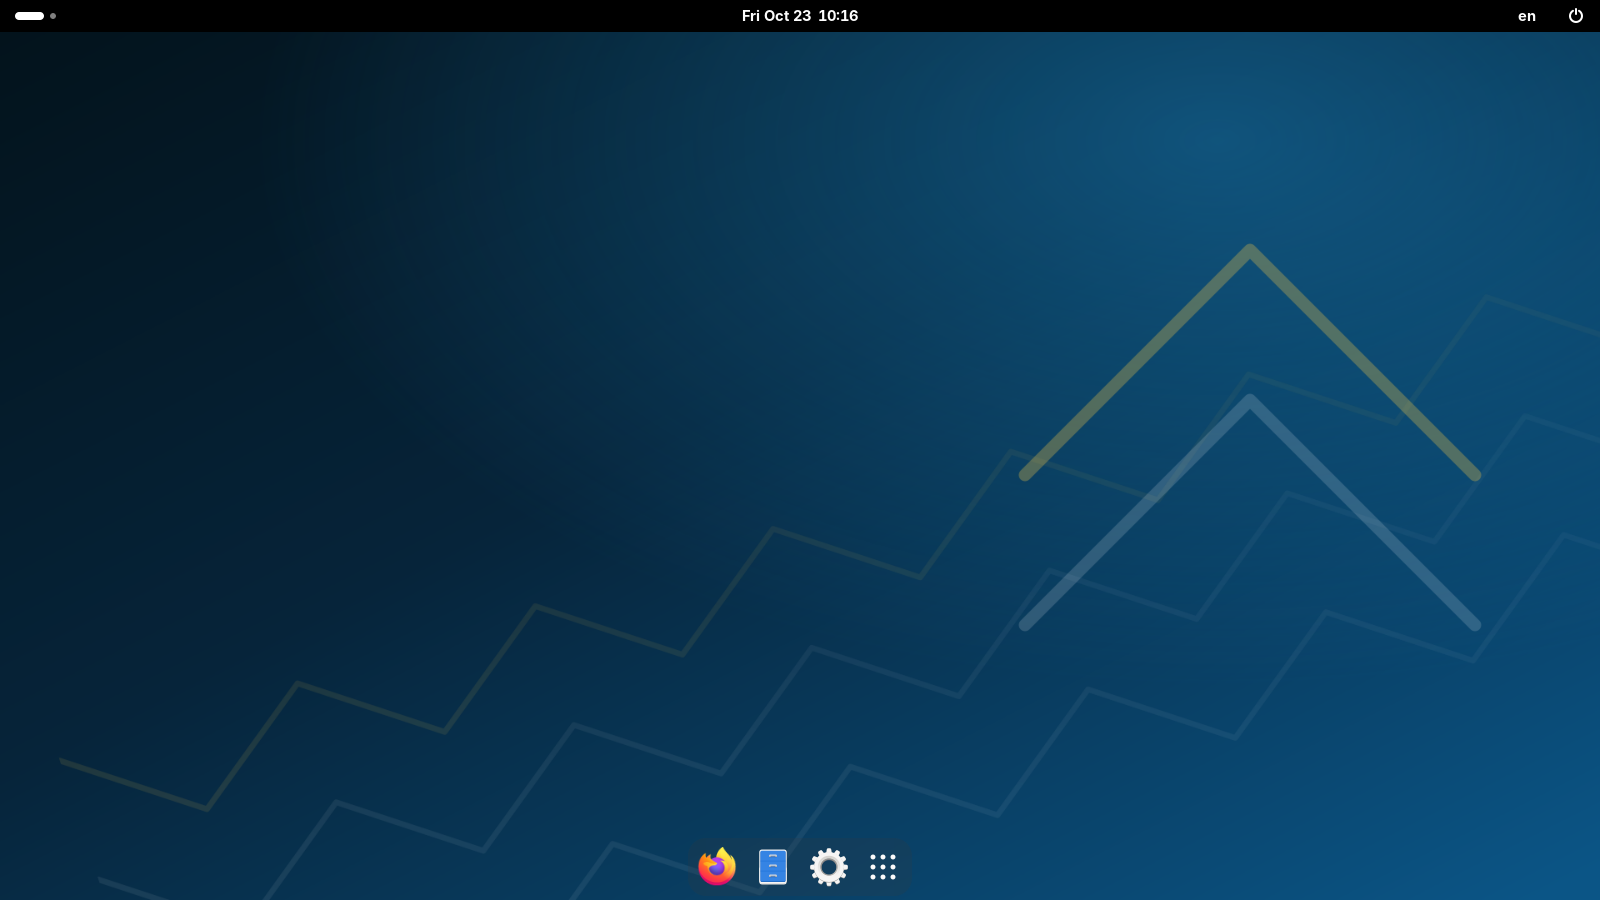
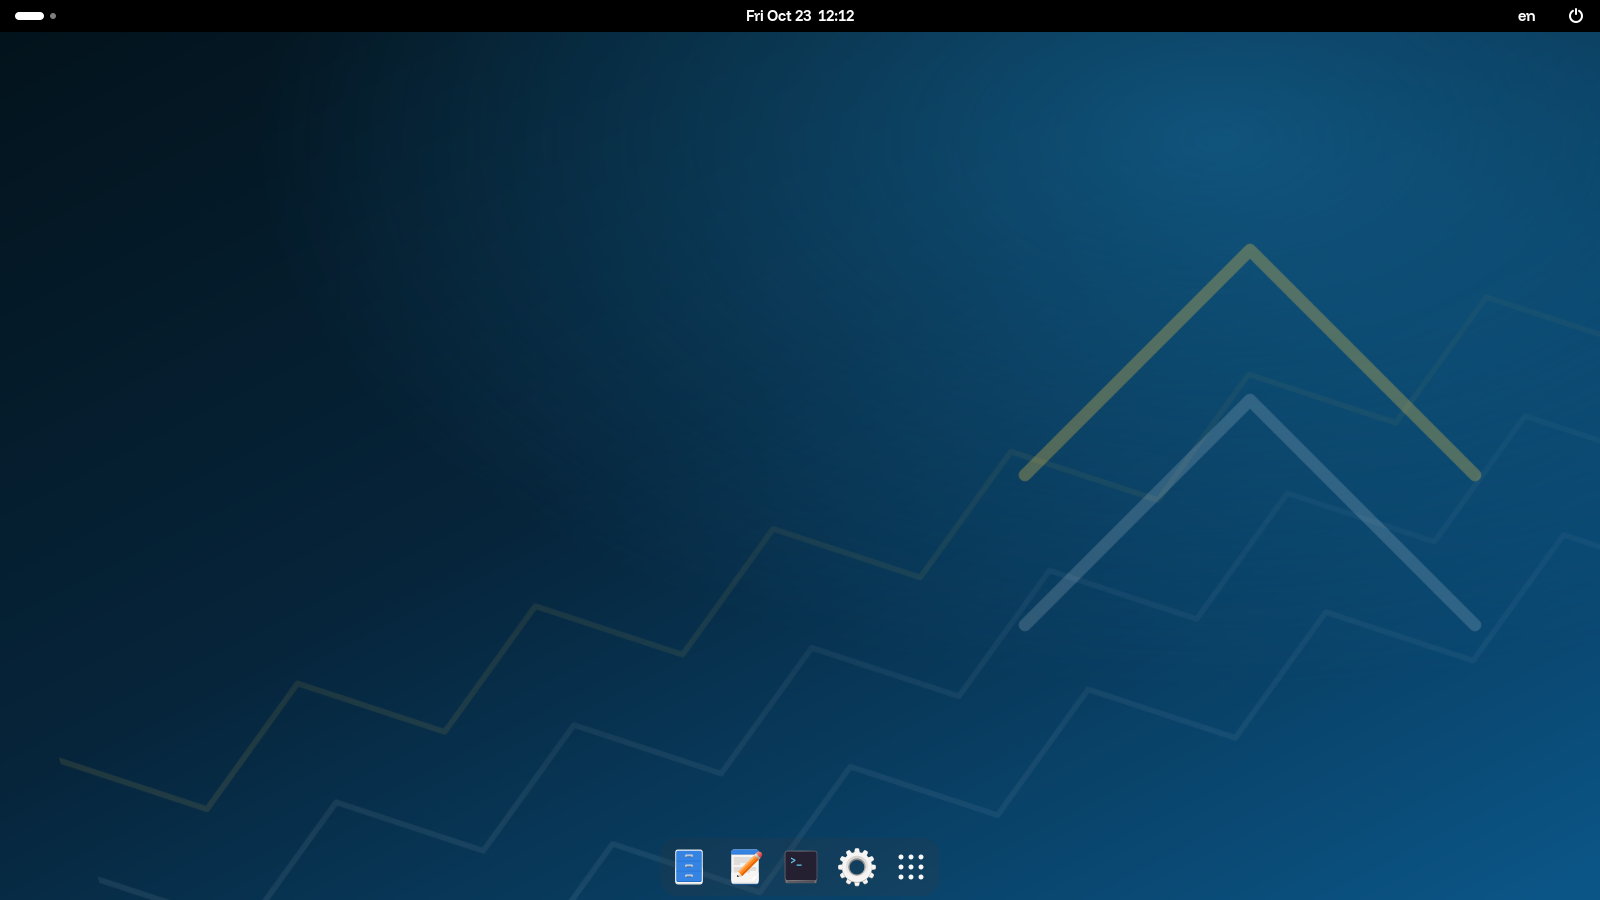
Serve the desktop preview over VNC instead of noVNC
Xvnc replaces the Xvfb, x11vnc and websockify stack: it is the X server and
the VNC server in one process, so there is nothing to keep in sync between
them and three packages leave the image. Any VNC client connects - TigerVNC,
macOS Screen Sharing, Remmina - on 127.0.0.1:5900.

The port is published on the loopback address only and there is no password
unless --password is passed. That is deliberate for a container that also runs
privileged, and the launcher says so rather than leaving it to be discovered.

The README screenshot is the rebuilt desktop: the new dock, and the top bar set
in Funnel Display.

Changed region(s): [[0.4062, 0.9333, 0.5625, 0.9956], [0.4688, 0.0, 0.5312, 0.0311]]

diff --git a/docs/building.md b/docs/building.md
@@ -19,11 +19,12 @@ they are missing and re-run themselves inside a Debian container.
 make packages          # → out/packages/*.deb
 ```
 
-Three packages come out:
+Four packages come out:
 
 | Package | Contents |
 |---|---|
-| `ros-branding` | Wallpapers, logo, splash, dconf defaults and locks, browser policy |
+| `ros-branding` | Wallpapers, logo, splash, dconf defaults and locks |
+| `ros-fonts` | Funnel Display and Space Grotesk, and the fontconfig rules that make them the system font |
 | `ros-agent` | The management agent, its systemd timer, `/etc/ros/agent.conf` |
 | `ros-desktop-base` | Metapackage: GNOME + the two above |
 
@@ -78,7 +79,7 @@ Expect roughly 2.5–3.5 GB of ISO and about 10 GB of scratch space.
 Clearing `/etc/machine-id` matters: it is regenerated on first boot, which is
 what makes each installed machine enroll as its own device.
 
-## Desktop preview in a browser
+## Desktop preview over VNC
 
 The fastest way to see what the branding and the policy actually do:
 
@@ -87,28 +88,36 @@ make desktop                      # image defaults only
 make desktop KEY=<enrollment key> # enrolled in the local console
 ```
 
-Then open **http://localhost:6080/vnc.html?autoconnect=true&resize=scale**.
+Then connect any VNC client to **127.0.0.1:5900**:
+
+```bash
+vncviewer 127.0.0.1:5900          # TigerVNC
+open vnc://127.0.0.1:5900         # macOS Screen Sharing
+```
 
 It builds a container running the real GNOME session, the real `ros-branding`
-package and the real `ros-agent`, rendered by Xvfb and served over noVNC. The
+and `ros-fonts` packages and the real `ros-agent`, on a TigerVNC server. The
 agent runs on its actual systemd timer, shortened to twenty seconds so a policy
 change can be watched landing.
 
-Two things about that container are worth knowing:
+Three things about that container are worth knowing:
 
 - **systemd runs as PID 1**, which is why it needs `--privileged`. GNOME Shell
   48 asks `org.freedesktop.login1` about the session before it will draw
   anything, and there is no way to opt out. elogind would be the lighter
   answer, but it conflicts with systemd on Debian 13.
-- **It is a development tool.** A privileged container with a passwordless VNC
-  server on it should never be reachable from anything but your own machine.
+- **Xvnc is the X server and the VNC server in one process**, so there is no
+  Xvfb to keep in sync with a separate x11vnc.
+- **It is a development tool.** The port is published on `127.0.0.1` only and
+  there is no password unless you pass one. Keep both of those true, or pass
+  `--password`.
 
 Useful knobs:
 
 ```bash
 ./scripts/preview-desktop.sh --geometry 1920x1080
-./scripts/preview-desktop.sh --port 6081 --unmanaged
-docker logs -f ros-desktop
+./scripts/preview-desktop.sh --password secret
+./scripts/preview-desktop.sh --port 5901 --unmanaged
 docker exec ros-desktop journalctl -u ros-preview.service
 docker exec ros-desktop ros-agent sync --force
 ```
@@ -151,8 +160,9 @@ make lint      # shell and Python syntax
 ```
 
 `make check` is the one that matters before a release: it proves the dconf
-databases compile, the ROS defaults are readable through the profile, and a
-policy from a server overrides them.
+databases compile, the ROS defaults are readable through the profile, the brand
+font resolves as the system `sans-serif`, no third-party application is pinned,
+and a policy from a server overrides the defaults.
 
 ## Troubleshooting
 

diff --git a/README.md b/README.md
@@ -34,6 +34,11 @@ machine, change its wallpaper, dock position and accent colour from a browser,
 and watch the change land — but it is version 0.1.0 and nothing about it is
 settled.
 
+ROS ships no third-party browser or office suite. The basic application set is
+being built as ROS applications on open source upstreams, carrying the ROS
+interface; until those exist the image ships the GNOME system tools and nothing
+else. See [docs/applications.md](docs/applications.md).
+
 ## How the pieces fit
 
 ```
@@ -77,7 +82,13 @@ make desktop
 ```
 
 That builds a container running the real GNOME session with the real branding
-package and opens it at **http://localhost:6080/vnc.html?autoconnect=true&resize=scale**.
+and font packages, on a TigerVNC server. Connect any VNC client:
+
+```bash
+vncviewer 127.0.0.1:5900          # TigerVNC
+open vnc://127.0.0.1:5900         # macOS Screen Sharing
+```
+
 About a minute, rather than the hours an ISO takes. It needs `--privileged`,
 because GNOME Shell requires logind and that means systemd as PID 1 inside the
 container.
@@ -100,7 +111,7 @@ make desktop KEY=<the enrollment key>
 ```
 
 The same desktop, now enrolled. Change the accent colour, the dock position or
-the wallpaper in **Policies → Default**, save, and watch the browser tab change
+the wallpaper in **Policies → Default**, save, and watch the VNC session change
 within twenty seconds.
 
 **4. Or manage a headless workstation instead**
@@ -111,6 +122,8 @@ same agent, the same policy — without building an image:
 ```bash
 make agent-dev KEY=<the enrollment key>
 ```
+
+Inside the shell it drops you into:
 
 ```bash
 ros-agent sync
@@ -134,7 +147,9 @@ thing.
 | Path | What it is |
 |---|---|
 | `base/live-build/` | The image: package lists, chroot hooks, ISO configuration |
+| `branding/fonts/` | The brand typefaces, the one copy everything else stages from |
 | `packages/ros-branding/` | Wallpapers, logo, boot splash, GTK accent, the default dconf policy |
+| `packages/ros-fonts/` | Funnel Display and Space Grotesk, and the fontconfig rules behind them |
 | `packages/ros-agent/` | The management agent and its systemd timer |
 | `packages/ros-desktop-base/` | Metapackage: "this machine is a ROS workstation" |
 | `management/console/` | The console — FastAPI, SQLite, server-rendered UI |
@@ -149,7 +164,8 @@ thing.
 |---|---|
 | [docs/architecture.md](docs/architecture.md) | Why it is built this way, and what each decision cost |
 | [docs/building.md](docs/building.md) | Building packages and ISOs, and what to do when a build breaks |
-| [docs/branding.md](docs/branding.md) | Customising GNOME: colours, wallpaper, dock, splash, login screen |
+| [docs/branding.md](docs/branding.md) | Customising GNOME: typeface, colours, wallpaper, dock, splash, login screen |
+| [docs/applications.md](docs/applications.md) | Why ROS ships no third-party browser or office suite, and what replaces them |
 | [docs/management.md](docs/management.md) | Running the console, enrolling machines, writing policy |
 | [docs/agent-protocol.md](docs/agent-protocol.md) | The agent/console HTTP contract |
 | [docs/roadmap.md](docs/roadmap.md) | What is next, and what is deliberately not being built yet |

diff --git a/CHANGELOG.md b/CHANGELOG.md
@@ -3,6 +3,25 @@
 Notable changes to ROS. Versions follow [semantic versioning](https://semver.org);
 before 1.0 the minor number carries breaking changes.
 
+## Unreleased
+
+### Changed
+
+- **The system font is now Funnel Display**, matching the RHost console at
+  rhost.rw. It ships in a new `ros-fonts` package together with Space Grotesk
+  for display text, and a fontconfig rule makes it the generic `sans-serif` -
+  so it is the system font, not just the GNOME interface font. Noto and DejaVu
+  stay behind it for the coverage Funnel Display does not have.
+- **Removed Firefox, LibreOffice and Thunderbird from the image**, along with
+  their policy files and dock entries. The basic application set is being built
+  as ROS applications on open source upstreams; see `docs/applications.md`.
+  Until those land the image ships the GNOME system tools only.
+- **The desktop preview serves plain VNC on :5900** instead of noVNC over HTTP.
+  Xvnc replaces the Xvfb/x11vnc/websockify stack, so there is one process
+  instead of three, and any VNC client can connect.
+- The brand typefaces live once, in `branding/fonts/`. The package build and
+  the console build both stage them from there rather than keeping copies.
+
 ## 0.1.0 — 2026-10-23
 
 First working version. The whole chain runs: build an image, enroll a machine,
